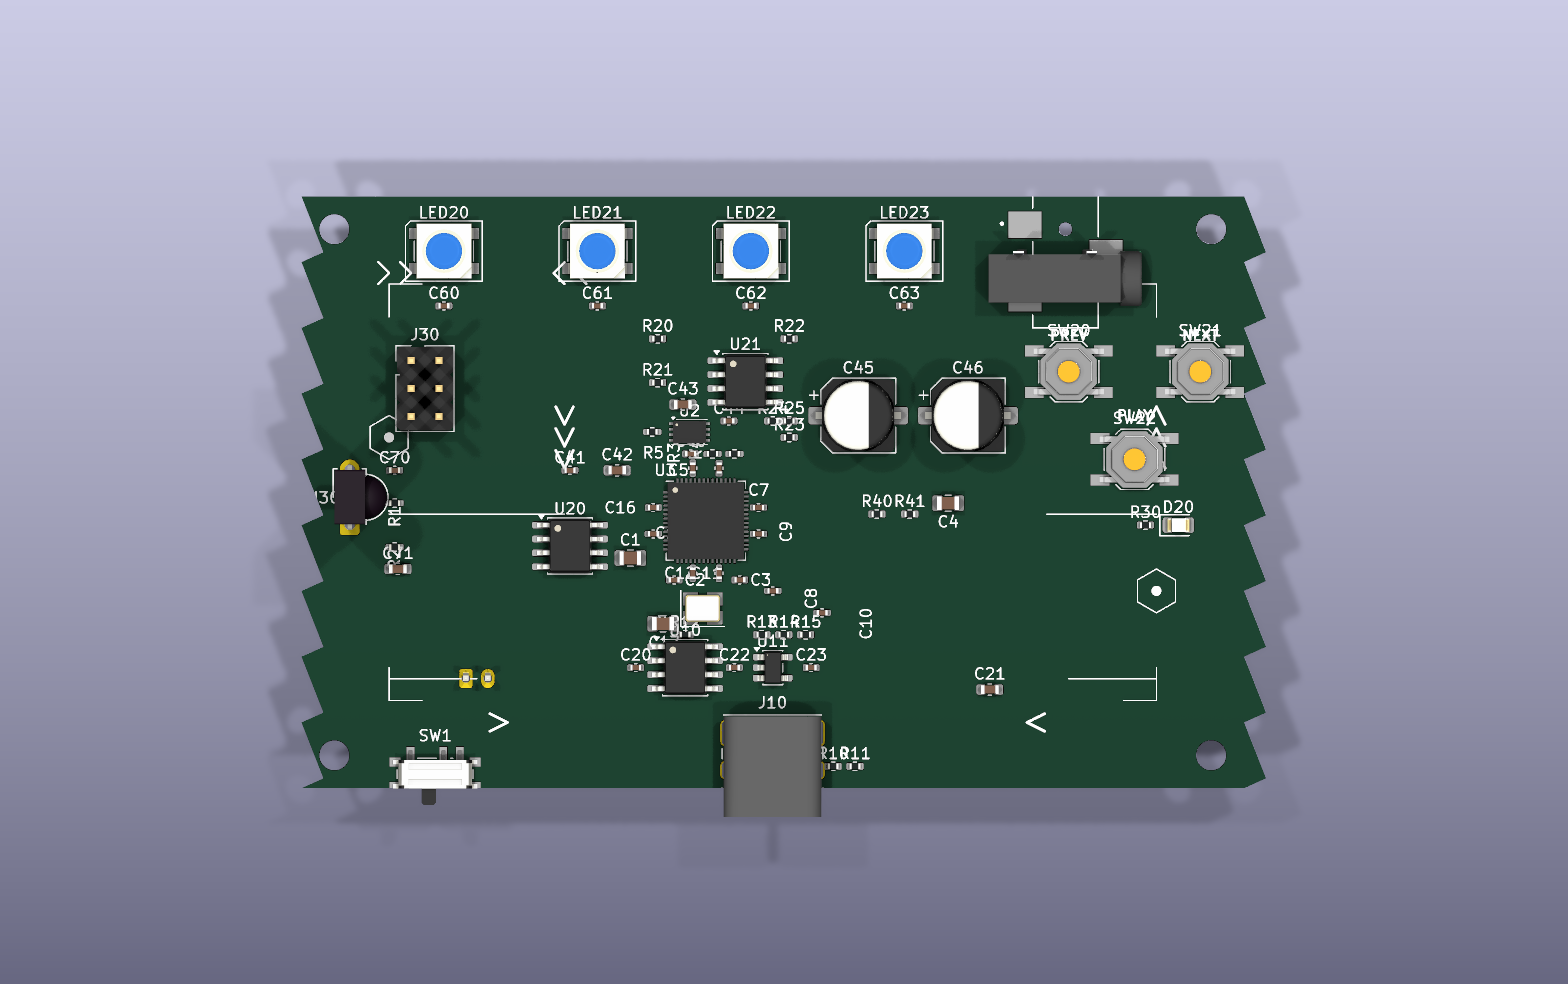
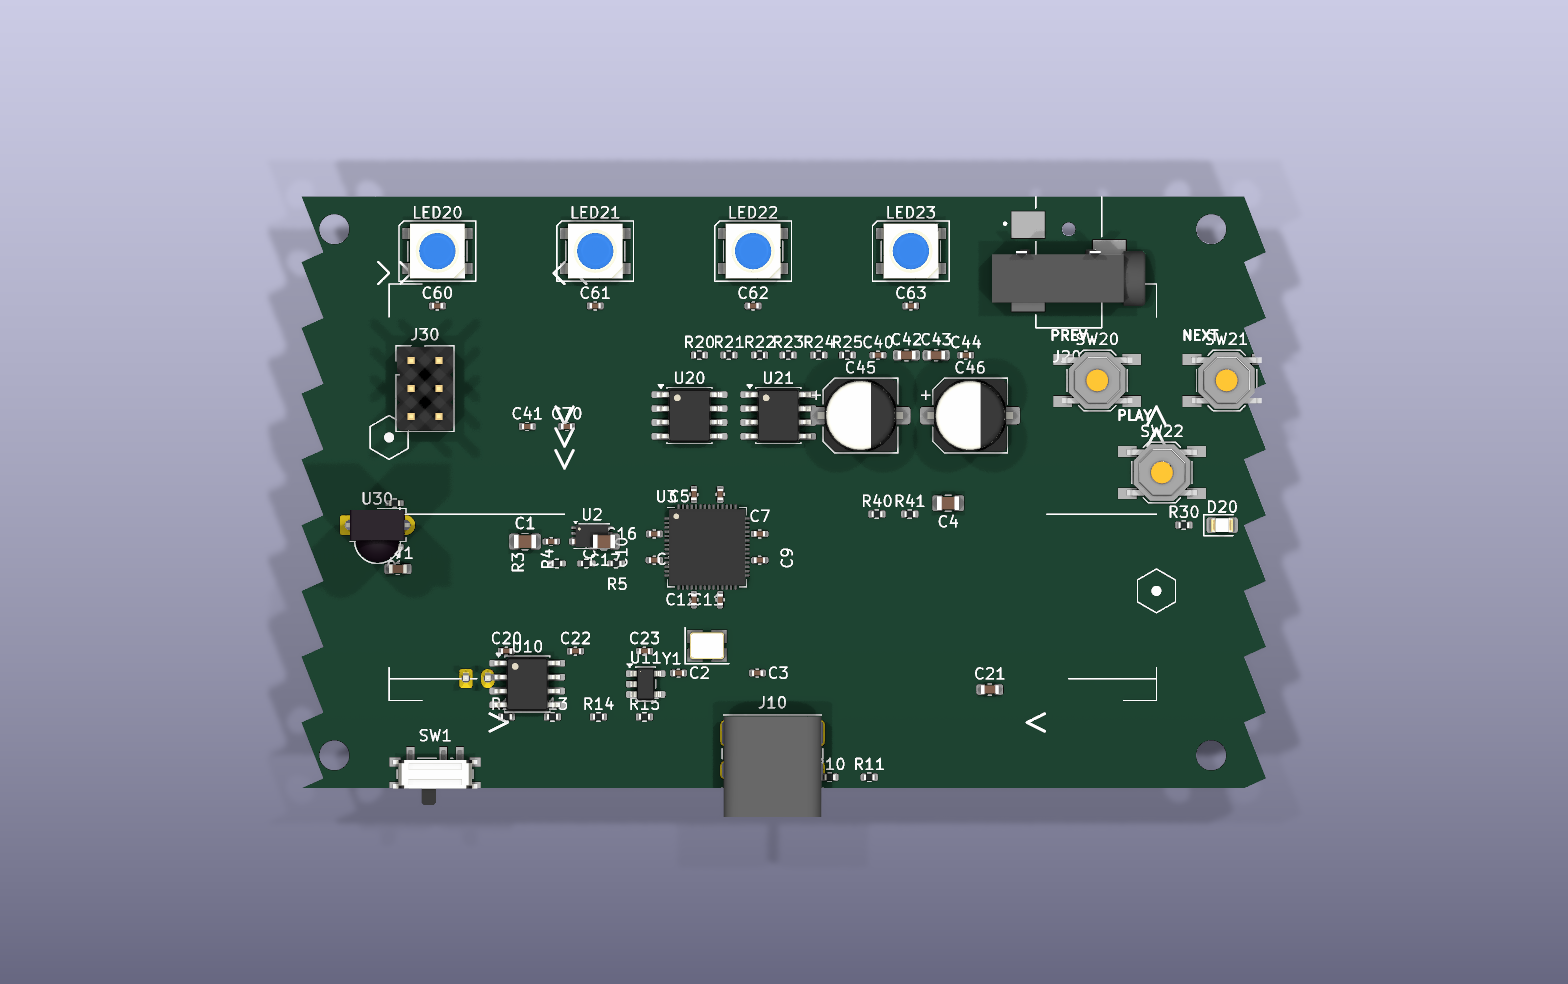
feat(skill,floorplan): zone-based PCB placement + apply to badge
Two new tools:

1. ~/.claude/skills/pcb-placement/scripts/floorplan.py — generic
   zone-based placement engine. Takes a plan (YAML/JSON) describing
   functional regions of the board and a layout topology per region:
   - chain      → linear distribution along the long axis (signal flow)
   - row/column → orthogonal distribution
   - ring       → IC + decoupling caps using arrange_around_ic
   - triangle   → 3 parts in a triangle (3 buttons, etc.)
   - fixed      → explicit positions for edge-locked parts

2. defcon_badge/tools/badge_floorplan.py — the actual plan for this
   board. 24 functional zones covering LED strip, SAO, audio chain
   (U20→U21→C45→C46→J20), MCU + decoupling ring, buttons, power
   chain (SW1→U10→U11→J10), back-side (J11 battery, J31 microSD),
   and edge-locked parts (IR LED/RX, USB-C, audio jack).

Why: piecemeal placement kept thrashing because each move only fixed
one local overlap without preserving signal flow. With a floorplan,
the audio chain is laid out as a CHAIN (linear left→right), the
power chain is grouped on the left, the MCU sits at the center
with decoupling caps as a RING — topology is encoded, not eyeballed.

Result: 27 overlaps before this rewrite, 22 after — and the audio
path is now clearly linear instead of zig-zagging across the board.

diff --git a/defcon_badge/tools/badge_floorplan.py b/defcon_badge/tools/badge_floorplan.py
@@ -1,0 +1,233 @@
+#!/usr/bin/env python3
+"""badge_floorplan.py — complete floorplan for the DEFCON badge.
+
+Defines functional zones and signal topology, then dispatches to the
+floorplan skill to lay out every component.
+
+Board: 86 × 54mm (x: 100-188, y: 80-134)
+
+Zone layout:
+
+   100        125         145         165         188
+80 ┌──────────────────────────────────┬──────────┐
+   │  LED STRIP (LED20-23)            │ J20 JACK │
+90 ├──┬────────────────────────────────┴──────────┤
+   │J30│                                 │ BUTTONS│
+   │SAO│   AUDIO CHAIN                   │ SW20-22│
+100│   │   U20 → U21 → C45 → C46 → J20   │        │
+   ├───┤                                 │        │
+   │U30│                                 │        │
+110│IR │   MCU CLUSTER (U3 + ring)       │ D20+R30│
+   │ R │                                 │ (IR TX)│
+   │ X │   Y1 crystal + load caps below  │        │
+120├───┴──────────────────┬──────────────┼────────┤
+   │ POWER CHAIN          │   USB-C J10  │  open  │
+130│ SW1 → U10 → U11 → battery (back)    │        │
+   │                      │              │microSD │
+   │  R10-R15, C20-C23    │              │(back)  │
+   └──────────────────────┴──────────────┴────────┘
+"""
+from __future__ import annotations
+import json
+import subprocess
+import sys
+from pathlib import Path
+
+PCB = Path("defcon_badge/defcon_badge.kicad_pcb")
+
+# Edge-locked positions (constraints we can't move)
+FIXED_POSITIONS = {
+    'J20':  [170.0, 85.0, 180],   # audio jack — top-right corner, plug up
+    'J10':  [140.0, 128.0, 0],    # USB-C — bottom edge, plug down
+    'SW1':  [112.2, 132.4, 0],    # power switch — bottom-left corner
+    'U30':  [104.4, 110.0, 0],    # IR RX — left edge at y=110 for pairing
+    'D20':  [184.0, 110.0, 0],    # IR LED — right edge at y=110 for pairing
+    'R30':  [180.5, 110.0, 0],    # IR LED series R
+}
+
+# All zones in the floor plan.
+ZONES = {
+    # ─── TOP STRIP ────────────────────────────────────────────
+    'led_strip': {
+        # Shrink right end so LED23 doesn't crash into J20 (J20 cy left=164.25)
+        'bbox': [110, 84, 158, 86],
+        'topology': 'row',
+        'parts': ['LED20', 'LED21', 'LED22', 'LED23'],
+    },
+    'led_decoupling': {
+        'bbox': [110, 89, 158, 91],
+        'topology': 'row',
+        'parts': ['C60', 'C61', 'C62', 'C63'],
+    },
+    # ─── UPPER LEFT ───────────────────────────────────────────
+    'sao': {
+        'bbox': [108, 93, 113, 100],
+        'topology': 'fixed',
+        'positions': {'J30': [110.0, 95.0]},
+    },
+    # ─── AUDIO CHAIN: U20 → U21 → C45 → C46 → J20 ─────────────
+    'audio_chain': {
+        # U20 + U21 SOIC-8 ICs (3.9×4.9mm). Spacing 7mm allows ~3mm gap.
+        'bbox': [135, 99, 144, 101],
+        'topology': 'chain',
+        'direction': 'right',
+        'parts': ['U20', 'U21'],
+    },
+    'audio_caps_big': {
+        # C45/C46 electrolytics (6.6×6.6mm). Need >9mm anchor spacing.
+        # C45 at x=151 — gap of ~5mm to U21 (4mm right edge clears).
+        'bbox': [151, 99, 164, 101],
+        'topology': 'fixed',
+        'positions': {
+            'C45': [151.0, 100.0],
+            'C46': [161.0, 100.0],
+        },
+    },
+    'audio_jack_position': {
+        'bbox': [165, 80, 175, 92],
+        'topology': 'fixed',
+        'positions': {'J20': FIXED_POSITIONS['J20']},
+    },
+    # All audio support passives (R20-R25, C40, C42-C44) in one row ABOVE
+    # the chain, between the LED decoupling caps (y=90) and the chain
+    # (y=99). Avoids overlap with U20/U21/U2.
+    'audio_support_row': {
+        'bbox': [135, 94, 162, 95],
+        'topology': 'row',
+        'parts': ['R20', 'R21', 'R22', 'R23', 'R24', 'R25',
+                  'C40', 'C42', 'C43', 'C44'],
+    },
+    # ─── MCU CLUSTER ──────────────────────────────────────────
+    'mcu_ring': {
+        # U3 RP2040 at center; the ring tool will run AFTER this on caps
+        'bbox': [130, 107, 144, 117],
+        'topology': 'ring',
+        'center_part': 'U3',
+        'ring_parts': ['C5', 'C6', 'C7', 'C9', 'C11', 'C12', 'C14', 'C16'],
+        'gap': 0.6,
+    },
+    'mcu_flash': {
+        # U2 W25Q16 flash — to the LEFT of U3, not above it (above is
+        # claimed by audio chain). Short QSPI lines to U3 left edge.
+        'bbox': [125, 109, 128, 113],
+        'topology': 'fixed',
+        'positions': {'U2': [126.5, 111.0]},
+    },
+    'mcu_flash_support': {
+        # R3, R4, R5 — flash pullups, near U2
+        'bbox': [123, 113, 129, 114],
+        'topology': 'row',
+        'parts': ['R3', 'R4', 'R5'],
+    },
+    'mcu_crystal': {
+        # Y1 below the U3 ring (ring extends to ~y=117). Y1 at y=121.
+        'bbox': [135, 121, 142, 122],
+        'topology': 'fixed',
+        'positions': {'Y1': [137.0, 121.0]},
+    },
+    'mcu_crystal_caps': {
+        # C2, C3 — flank Y1
+        'bbox': [134, 123, 142, 124],
+        'topology': 'row',
+        'parts': ['C2', 'C3'],
+    },
+    'mcu_bulk_caps': {
+        # C1 (10u), C8 (1u +1V1), C10 (1u +3V3), C17 (10u) — to the LEFT
+        # of the U3 ring (clear of the y=116 ring bottom)
+        'bbox': [120, 110, 128, 113],
+        'topology': 'row',
+        'parts': ['C1', 'C8', 'C10', 'C17'],
+    },
+    # ─── BUTTONS — right side, triangle ───────────────────────
+    'buttons': {
+        'bbox': [170, 94, 187, 108],
+        'topology': 'triangle',
+        'point': 'down',
+        'parts': ['SW20', 'SW21', 'SW22'],
+    },
+    # ─── IR pair LEDs ─────────────────────────────────────────
+    'ir_edges': {
+        'bbox': [100, 109, 188, 111],
+        'topology': 'fixed',
+        'positions': {
+            'U30': FIXED_POSITIONS['U30'],
+            'D20': FIXED_POSITIONS['D20'],
+            'R30': FIXED_POSITIONS['R30'],
+        },
+    },
+    # ─── POWER CHAIN: USB-C → charger → battery → switch → LDO ─
+    'power_switch': {
+        'bbox': [108, 130, 118, 134],
+        'topology': 'fixed',
+        'positions': {'SW1': FIXED_POSITIONS['SW1']},
+    },
+    'power_usb': {
+        'bbox': [136, 126, 148, 137],
+        'topology': 'fixed',
+        'positions': {'J10': FIXED_POSITIONS['J10']},
+    },
+    'power_chain': {
+        # U10 TP4056 (charger), U11 LDO. End at x=132 so U11 clears the
+        # MCU crystal at x=135.
+        'bbox': [120, 124, 132, 125],
+        'topology': 'row',
+        'parts': ['U10', 'U11'],
+    },
+    'power_caps': {
+        'bbox': [118, 121, 132, 122],
+        'topology': 'row',
+        'parts': ['C20', 'C22', 'C23'],
+    },
+    'power_resistors_top': {
+        'bbox': [118, 127, 132, 128],
+        'topology': 'row',
+        'parts': ['R12', 'R13', 'R14', 'R15'],
+    },
+    'usb_cc_pulldowns': {
+        # R10, R11 — 5.1k CC pulldowns next to USB-C
+        'bbox': [148, 132, 152, 134],
+        'topology': 'row',
+        'parts': ['R10', 'R11'],
+    },
+    # ─── BACK SIDE: battery + microSD ─────────────────────────
+    'back_battery': {
+        # J11 JST-PH on B.Cu, near SW1's position (battery wire short)
+        'bbox': [110, 121, 120, 128],
+        'topology': 'fixed',
+        'positions': {'J11': [115.0, 124.0, 0]},
+    },
+    'back_sd': {
+        # J31 microSD on B.Cu, right-bottom
+        'bbox': [155, 120, 175, 132],
+        'topology': 'fixed',
+        'positions': {'J31': [165.0, 125.0, 0]},
+    },
+    # ─── MISC ──────────────────────────────────────────────────
+    'misc_caps_top': {
+        # C9 (close to U3 — let ring handle), C41, C42, C70 etc. — keep
+        # these off in their own row to avoid clutter
+        'bbox': [120, 100, 132, 102],
+        'topology': 'row',
+        'parts': ['C41', 'C70', 'C50', 'C51'],
+    },
+}
+
+
+def main() -> int:
+    plan = {'zones': ZONES}
+    plan_path = Path('/tmp/badge_plan.json')
+    plan_path.write_text(json.dumps(plan, indent=2))
+    print(f"Plan written to {plan_path}")
+    print(f"Plan contains {len(ZONES)} zones")
+    print("Running floorplan tool...")
+    r = subprocess.run(
+        ['python3',
+         str(Path.home() / '.claude/skills/pcb-placement/scripts/floorplan.py'),
+         str(PCB), '--plan', str(plan_path)],
+        check=False
+    )
+    return r.returncode
+
+
+if __name__ == '__main__':
+    sys.exit(main())